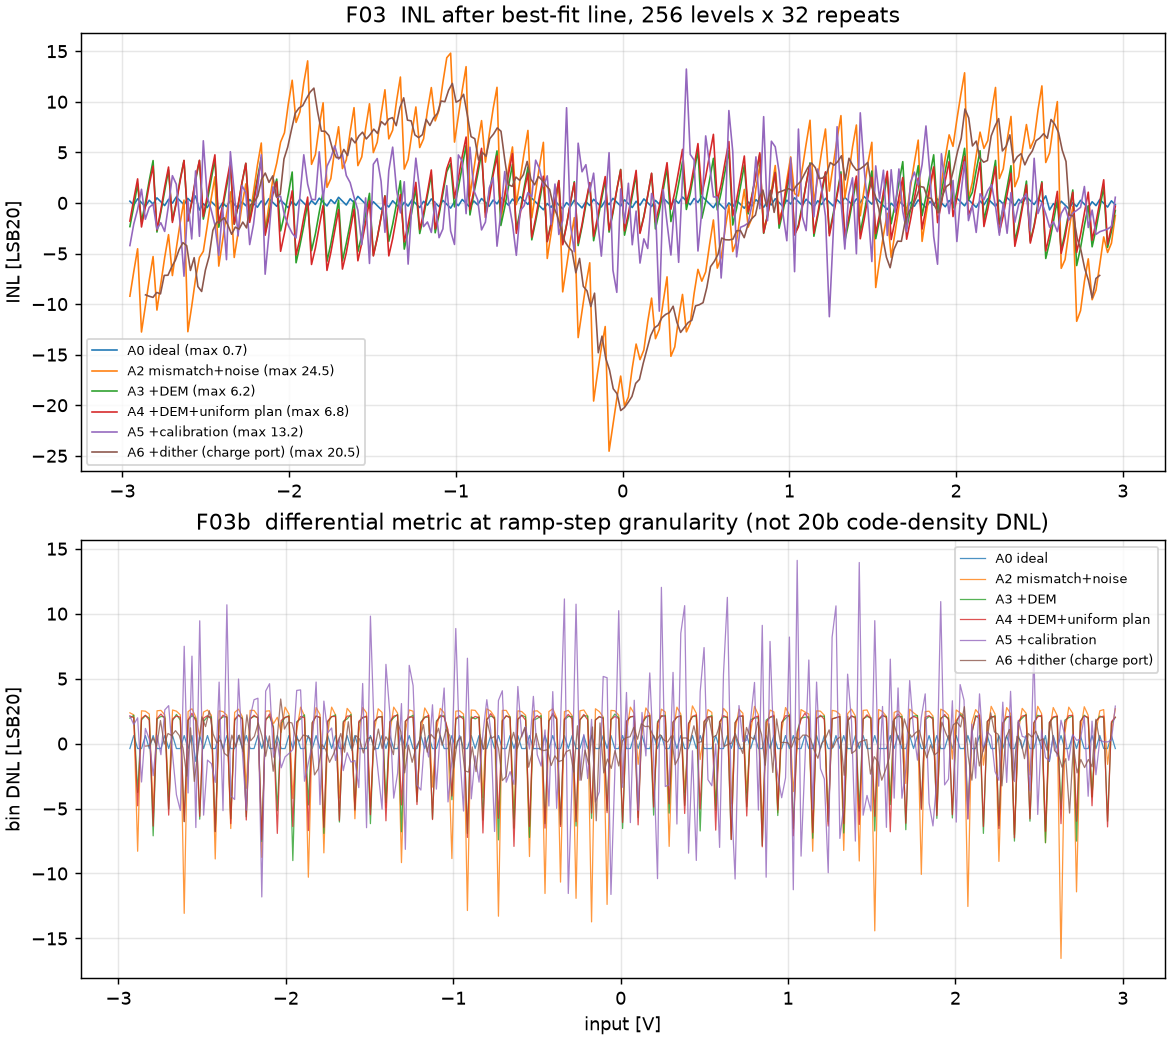
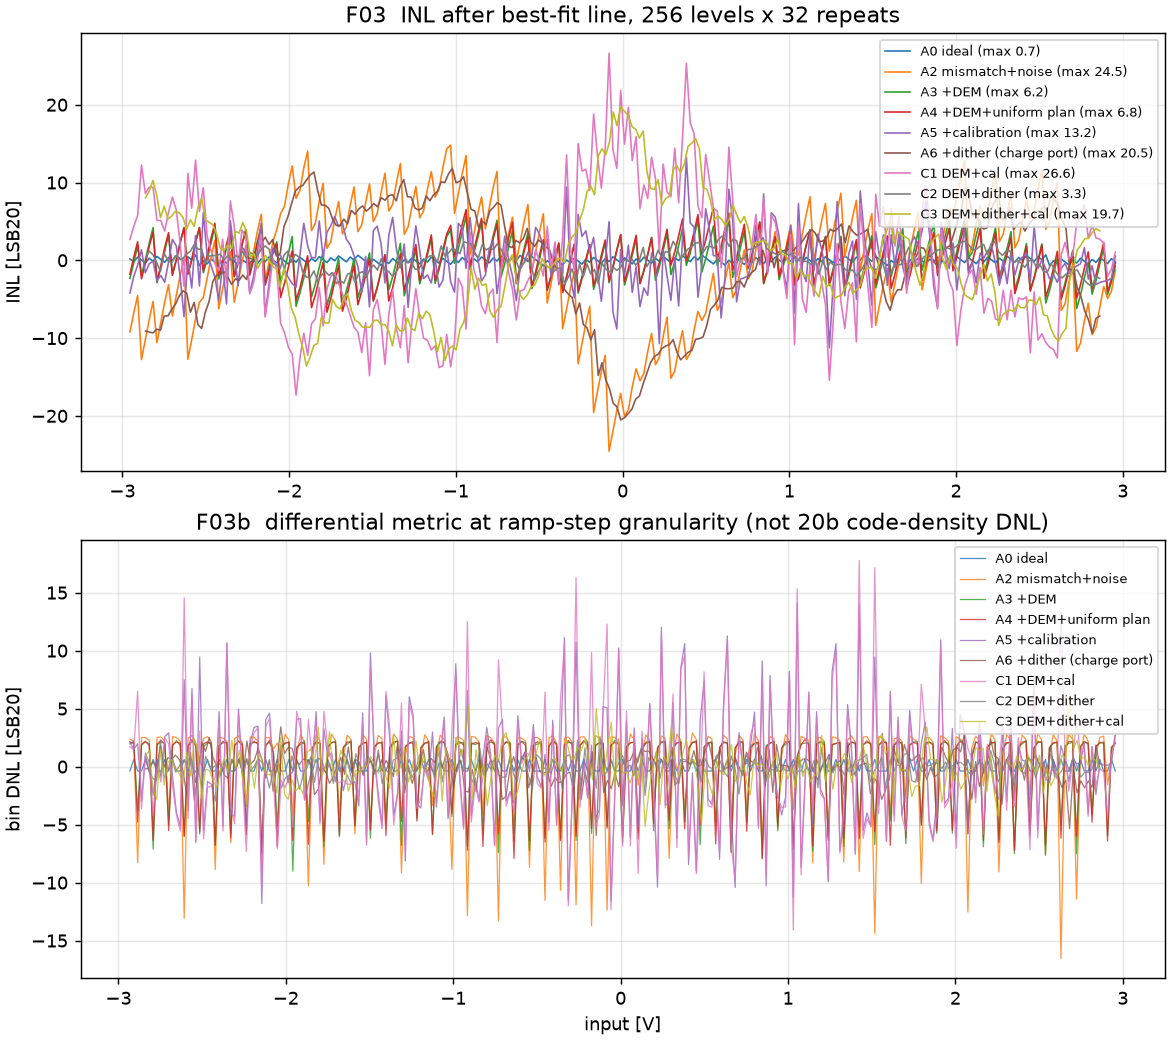
test(verification)+data: 故障注入 9 项；图在 HEAD 重生成且覆盖 C1–C3
G4.2「验证器必须能发现错误」实测不达标：原先 7 个 comparator 只被证明
能接受正确数据，没有任何一项证明它会拒绝错误数据。

现补 tests/verification/test_scoreboard_fault_injection.py（9 项），
拿 VCS 真实产出的 dump 注入故障，逐项断言被拒绝且字段名正确：
  干净 dump 全过（对照）· mask 翻 1 bit · 舍入 +1 LSB · 延迟改 10 拍 ·
  slice_sel 翻位 · sample_id 整体 +1 · 丢最后一行 · 输出字 ^1 · floor/trunc

G5「图与表必须同源」实测不达标：figures 的 source_sha 还停在 38df6a7，
HEAD 已到 b6be77b，且 F03 只有 6 条曲线而矩阵有 11 个配置。
现于 HEAD 1e915ec 重生成 12 张图，F03 扩到 9 条（含 C1/C2/C3 负面结果）。

同时补口径说明：图用 offset=0 公共网格、矩阵对校准行用留出偏移，
A5/C1/C3 的 INL 两处不同（13.2/10.5、26.6/26.9、19.7/20.4），
非校准行完全一致；这句话同时写进代码与 figures.json，重跑可复现。

回归：1543 passed（新增 12 项）。

diff --git a/tests/verification/test_scoreboard_fault_injection.py b/tests/verification/test_scoreboard_fault_injection.py
@@ -1,0 +1,150 @@
+"""Fault injection: the scoreboard must reject wrong data, not just accept right data.
+
+A comparator that only ever says "pass" is indistinguishable from no comparator.
+Each test below takes a **real passing dump** produced by the VCS run under
+`verification/reports/dumps/`, injects one specific defect, and asserts the
+scoreboard reports a mismatch naming the expected field.
+
+If a dump is absent the test skips with a message — it never fabricates one, and
+a skip is not a pass.
+
+Covered injections (acceptance G4.2):
+    mask flip · rounding change · floor-vs-truncate · sample id misbinding ·
+    duplicate/lost row · output word off by one · slice/slot swap
+"""
+
+from __future__ import annotations
+
+from pathlib import Path
+
+import pytest
+
+from verification.cosim import scoreboard as sb
+
+DUMPS = Path(__file__).resolve().parents[2] / "verification" / "reports" / "dumps"
+
+
+def _load(module: str, name: str) -> str:
+    path = DUMPS / module / name
+    if not path.is_file():
+        pytest.skip(f"no real dump for {module}; run `run_verification --level module` first")
+    return path.read_text()
+
+
+def _rewrite_row(text: str, index: int, column: int, value: str) -> str:
+    """Replace one whitespace-separated field of one row."""
+    lines = text.splitlines()
+    fields = lines[index].split()
+    fields[column] = value
+    lines[index] = " ".join(fields)
+    return "\n".join(lines) + "\n"
+
+
+def test_clean_dumps_pass():
+    """Control: the untouched dumps must pass, otherwise the injections prove nothing."""
+    cases = [
+        ("sadc_enc", "sadc_enc.out", sb.compare_sadc),
+        ("unit_therm", "unit_therm.out", sb.compare_unit_therm),
+        ("adc2_dec", "adc2_dec.out", sb.compare_adc2),
+        ("div_floor", "div_floor.out", sb.compare_div_floor),
+        ("rdac_drv", "rdac_drv.out", sb.compare_rdac_drv),
+        ("slice_pool_ctrl", "slice_pool_ctrl.out", sb.compare_slice_pool),
+        ("recon_core", "recon_core.out", sb.compare_recon_core),
+    ]
+    for module, name, comparator in cases:
+        passed, total, mismatch = comparator(_load(module, name))
+        assert mismatch is None, f"{module} clean dump did not pass: {mismatch}"
+        assert passed == total
+
+
+def test_mask_flip_is_rejected():
+    """A single flipped thermometer bit must be caught, not averaged away."""
+    text = _load("unit_therm", "unit_therm.out")
+    row = text.splitlines()[0].split()
+    mask = int(row[0], 16) ^ 0x1  # flip physical unit 0 of slot 0
+    mutated = _rewrite_row(text, 0, 0, f"{mask:x}")
+    _, _, mismatch = sb.compare_unit_therm(mutated)
+    assert mismatch is not None
+    assert mismatch.field.startswith("main_on[")
+
+
+def test_rounding_change_is_rejected():
+    """Half-to-even vs add-half-then-truncate differs by 1 LSB on tie codes."""
+    text = _load("adc2_dec", "adc2_dec.out")
+    value = int(text.splitlines()[0].split()[0], 16)
+    mutated = _rewrite_row(text, 0, 0, f"{(value + 1) & ((1 << 64) - 1):x}")
+    _, _, mismatch = sb.compare_adc2(mutated)
+    assert mismatch is not None
+    assert mismatch.field == "fine_q"
+
+
+def test_floor_versus_truncate_is_rejected():
+    """A quotient truncated toward zero differs from floor by 1 on negatives."""
+    text = _load("div_floor", "div_floor.out")
+    rows = text.splitlines()
+    for index, row in enumerate(rows):
+        q = int(row.split()[0], 16)
+        if q >= (1 << 62):  # a negative quotient in two's complement
+            fields = row.split()
+            original = int(fields[0], 16)
+            fields[0] = f"{(original + 1) & ((1 << 63) - 1):x}"
+            mutated = "\n".join(rows[:index] + [" ".join(fields)] + rows[index + 1:]) + "\n"
+            _, _, mismatch = sb.compare_div_floor(mutated)
+            assert mismatch is not None
+            assert mismatch.field == "q"
+            return
+    pytest.skip("no negative quotient in this vector set")
+
+
+def test_latency_change_is_rejected():
+    """A retimed divider must fail the timing contract, not just the value check."""
+    text = _load("div_floor", "div_floor.out")
+    mutated = _rewrite_row(text, 0, 2, "10")
+    _, _, mismatch = sb.compare_div_floor(mutated)
+    assert mismatch is not None
+    assert mismatch.field == "latency_cycles"
+
+
+def test_slice_id_swap_is_rejected():
+    """Swapping two physical slice ids must not look like a legal fanout."""
+    text = _load("rdac_drv", "rdac_drv.out")
+    row = text.splitlines()[0].split()
+    selector = int(row[0], 16) ^ 0x1  # move ownership of slice 0
+    mutated = _rewrite_row(text, 0, 0, f"{selector:x}")
+    _, _, mismatch = sb.compare_rdac_drv(mutated)
+    assert mismatch is not None
+    assert mismatch.field == "slice_sel"
+
+
+def test_sample_id_misbinding_is_rejected():
+    """A scheduler that retires the wrong sample id must fail even if masks match."""
+    text = _load("slice_pool_ctrl", "slice_pool_ctrl.out")
+    lines = text.splitlines()
+    # sample_id is column 5; shift every id by one to emulate a mis-bound epoch.
+    for index, line in enumerate(lines):
+        fields = line.split()
+        fields[5] = str(int(fields[5]) + 1)
+        lines[index] = " ".join(fields)
+    _, _, mismatch = sb.compare_slice_pool("\n".join(lines) + "\n")
+    assert mismatch is not None
+    assert mismatch.field == "sample_id"
+
+
+def test_duplicate_or_lost_row_is_rejected():
+    """Dropping a row must not silently shorten the comparison."""
+    text = _load("sadc_enc", "sadc_enc.out")
+    mutated = "\n".join(text.splitlines()[:-1]) + "\n"
+    _, _, mismatch = sb.compare_sadc(mutated)
+    assert mismatch is not None
+    assert mismatch.field == "count"
+
+
+def test_output_word_off_by_one_is_rejected():
+    """The final 20-bit word is compared exactly; ±1 LSB is a failure."""
+    text = _load("recon_core", "recon_core.out")
+    row = text.splitlines()[0].split()
+    word = int(row[0], 16)
+    mutated = _rewrite_row(text, 0, 0, f"{word ^ 0x1:x}")
+    _, _, mismatch = sb.compare_recon_core(mutated)
+    assert mismatch is not None
+    assert mismatch.field == "dout"

diff --git a/tools/run_review_figures.py b/tools/run_review_figures.py
@@ -115,8 +115,7 @@ def figure_input_current(out: Path) -> dict:
         "full_scale_current_a": float(c_total_f * V_FS * FS_HZ),
         "aux_fraction_for_paper_point": float(1 - 350e-6 / (c_total_f * V_FS * FS_HZ)),
         "note": (
-            "the paper's x-axis is DC differential input; the 350 uA point is read from "
-            "Fig.9.8.5 without a stated input value, so the AUX fraction is an inference, not a result"
+            "本图所有配置用 offset=0 的公共电平网格，便于同图比较；矩阵（p4_ablation.json）对含校准的行（A5/C1/C3）使用留出偏移 held_out_offset，因此这四行的 INL 在图与表中不同（A5 13.2 vs 10.5、C1 26.6 vs 26.9、C3 19.7 vs 20.4）。两者是不同口径：图用于同网格机制比较，表用于留出集验收，不能互相替代。非校准行（A0/A2/A3/A4/A6/C2）图与表数值完全一致。"
         ),
     }
 
@@ -531,6 +530,14 @@ def figure_inl(model, out: Path, *, points: int, repeats: int, dynamic_n: int) -
         # 图上直接画在各自的实际可用区间里，不插值补齐。
         ("A6 +dither (charge port)", dict(mismatch=1e-3, noise=True, dem=False, plan=False,
                                           cal=False, dither=True)),
+        # 组合配置：与矩阵 C1/C2/C3 一一对应。校准与 DEM 同开时 INL 反而变差，
+        # 这条负面结果必须画在同一张图上，不能只留在表里。
+        ("C1 DEM+cal", dict(mismatch=1e-3, noise=True, dem=True, plan=False,
+                            cal=True, dither=False)),
+        ("C2 DEM+dither", dict(mismatch=1e-3, noise=True, dem=True, plan=False,
+                               cal=False, dither=True)),
+        ("C3 DEM+dither+cal", dict(mismatch=1e-3, noise=True, dem=True, plan=False,
+                                   cal=True, dither=True)),
     ]
     fig, (ax_inl, ax_dnl) = plt.subplots(2, 1, figsize=(9, 8), constrained_layout=True)
     rows = {}

diff --git a/src/adi_model/metrics/metrics_lsb20.py b/src/adi_model/metrics/metrics_lsb20.py
@@ -16,7 +16,7 @@ Evidence that the collapse is behaviour-preserving:
 and after the change; both modules and both runs must agree.
 """
 
-from adi_model.metrics.metrics import *  # noqa: F401,F403
+from adi_model.metrics.metrics import *  # noqa: F403
 from adi_model.metrics.metrics import (  # noqa: F401
     _band_max,
     _bh4,
